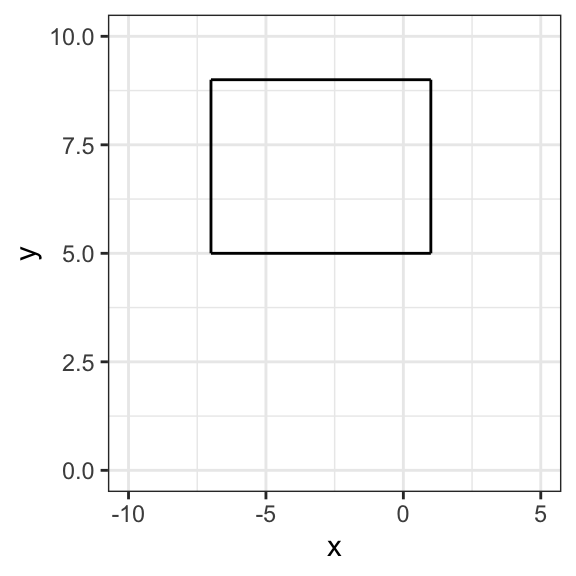
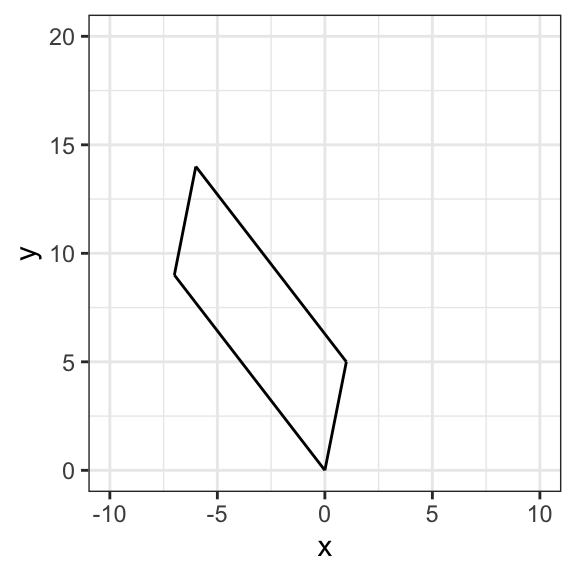
2.1

diff --git a/Lab3WriteUp.html b/Lab3WriteUp.html
@@ -254,31 +254,31 @@ Figure&nbsp;1: The unit square.
 <div class="cell">
 <details class="code-fold">
 <summary>Code</summary>
-<div class="sourceCode cell-code" id="cb12"><pre class="sourceCode numberSource r number-lines code-with-copy"><code class="sourceCode r"><span id="cb12-1"><a href="#cb12-1"></a>(p0 <span class="ot">&lt;-</span> <span class="fu">c</span>(<span class="sc">-</span><span class="dv">7</span>, <span class="dv">5</span>)) </span></code><button title="Copy to Clipboard" class="code-copy-button"><i class="bi"></i></button></pre></div>
+<div class="sourceCode cell-code" id="cb12"><pre class="sourceCode numberSource r number-lines code-with-copy"><code class="sourceCode r"><span id="cb12-1"><a href="#cb12-1"></a>(p0 <span class="ot">&lt;-</span> <span class="fu">c</span>(<span class="dv">0</span>, <span class="dv">0</span>)) </span></code><button title="Copy to Clipboard" class="code-copy-button"><i class="bi"></i></button></pre></div>
 </details>
 <div class="cell-output cell-output-stdout">
-<pre><code>[1] -7  5</code></pre>
+<pre><code>[1] 0 0</code></pre>
 </div>
 <details class="code-fold">
 <summary>Code</summary>
-<div class="sourceCode cell-code" id="cb14"><pre class="sourceCode numberSource r number-lines code-with-copy"><code class="sourceCode r"><span id="cb14-1"><a href="#cb14-1"></a>(p1 <span class="ot">&lt;-</span> <span class="fu">c</span>(<span class="sc">-</span><span class="dv">7</span>, <span class="dv">9</span>))</span></code><button title="Copy to Clipboard" class="code-copy-button"><i class="bi"></i></button></pre></div>
-</details>
-<div class="cell-output cell-output-stdout">
-<pre><code>[1] -7  9</code></pre>
-</div>
-<details class="code-fold">
-<summary>Code</summary>
-<div class="sourceCode cell-code" id="cb16"><pre class="sourceCode numberSource r number-lines code-with-copy"><code class="sourceCode r"><span id="cb16-1"><a href="#cb16-1"></a>(p2 <span class="ot">&lt;-</span> <span class="fu">c</span>(<span class="dv">1</span>, <span class="dv">9</span>))</span></code><button title="Copy to Clipboard" class="code-copy-button"><i class="bi"></i></button></pre></div>
-</details>
-<div class="cell-output cell-output-stdout">
-<pre><code>[1] 1 9</code></pre>
-</div>
-<details class="code-fold">
-<summary>Code</summary>
-<div class="sourceCode cell-code" id="cb18"><pre class="sourceCode numberSource r number-lines code-with-copy"><code class="sourceCode r"><span id="cb18-1"><a href="#cb18-1"></a>(p3 <span class="ot">&lt;-</span> <span class="fu">c</span>(<span class="dv">1</span>, <span class="dv">5</span>)) <span class="co"># created points p0, p1, p2, p3</span></span></code><button title="Copy to Clipboard" class="code-copy-button"><i class="bi"></i></button></pre></div>
+<div class="sourceCode cell-code" id="cb14"><pre class="sourceCode numberSource r number-lines code-with-copy"><code class="sourceCode r"><span id="cb14-1"><a href="#cb14-1"></a>(p1 <span class="ot">&lt;-</span> <span class="fu">c</span>(<span class="dv">1</span>, <span class="dv">5</span>))</span></code><button title="Copy to Clipboard" class="code-copy-button"><i class="bi"></i></button></pre></div>
 </details>
 <div class="cell-output cell-output-stdout">
 <pre><code>[1] 1 5</code></pre>
+</div>
+<details class="code-fold">
+<summary>Code</summary>
+<div class="sourceCode cell-code" id="cb16"><pre class="sourceCode numberSource r number-lines code-with-copy"><code class="sourceCode r"><span id="cb16-1"><a href="#cb16-1"></a>(p2 <span class="ot">&lt;-</span> <span class="fu">c</span>(<span class="sc">-</span><span class="dv">6</span>, <span class="dv">14</span>))</span></code><button title="Copy to Clipboard" class="code-copy-button"><i class="bi"></i></button></pre></div>
+</details>
+<div class="cell-output cell-output-stdout">
+<pre><code>[1] -6 14</code></pre>
+</div>
+<details class="code-fold">
+<summary>Code</summary>
+<div class="sourceCode cell-code" id="cb18"><pre class="sourceCode numberSource r number-lines code-with-copy"><code class="sourceCode r"><span id="cb18-1"><a href="#cb18-1"></a>(p3 <span class="ot">&lt;-</span> <span class="fu">c</span>(<span class="sc">-</span><span class="dv">7</span>, <span class="dv">9</span>)) <span class="co"># created points p0, p1, p2, p3</span></span></code><button title="Copy to Clipboard" class="code-copy-button"><i class="bi"></i></button></pre></div>
+</details>
+<div class="cell-output cell-output-stdout">
+<pre><code>[1] -7  9</code></pre>
 </div>
 </div>
 <p></p>
@@ -297,8 +297,8 @@ Figure&nbsp;1: The unit square.
 <span id="cb20-4"><a href="#cb20-4"></a>  <span class="fu">geom_segment</span>(<span class="fu">aes</span>(<span class="at">x =</span> p2[<span class="dv">1</span>], <span class="at">y =</span> p2[<span class="dv">2</span>], <span class="at">xend =</span> p3[<span class="dv">1</span>], <span class="at">yend =</span> p3[<span class="dv">2</span>])) <span class="sc">+</span></span>
 <span id="cb20-5"><a href="#cb20-5"></a>  <span class="fu">geom_segment</span>(<span class="fu">aes</span>(<span class="at">x =</span> p3[<span class="dv">1</span>], <span class="at">y =</span> p3[<span class="dv">2</span>], <span class="at">xend =</span> p0[<span class="dv">1</span>], <span class="at">yend =</span> p0[<span class="dv">2</span>])) <span class="sc">+</span></span>
 <span id="cb20-6"><a href="#cb20-6"></a>  <span class="fu">theme_bw</span>() <span class="sc">+</span></span>
-<span id="cb20-7"><a href="#cb20-7"></a>  <span class="fu">xlim</span>(<span class="sc">-</span><span class="dv">10</span>, <span class="dv">5</span>) <span class="sc">+</span></span>
-<span id="cb20-8"><a href="#cb20-8"></a>  <span class="fu">ylim</span>(<span class="dv">0</span>, <span class="dv">10</span>) <span class="sc">+</span></span>
+<span id="cb20-7"><a href="#cb20-7"></a>  <span class="fu">xlim</span>(<span class="sc">-</span><span class="dv">10</span>, <span class="dv">10</span>) <span class="sc">+</span></span>
+<span id="cb20-8"><a href="#cb20-8"></a>  <span class="fu">ylim</span>(<span class="dv">0</span>, <span class="dv">20</span>) <span class="sc">+</span></span>
 <span id="cb20-9"><a href="#cb20-9"></a>  <span class="fu">labs</span>(<span class="at">x =</span> <span class="st">"x"</span>, <span class="at">y =</span> <span class="st">"y"</span>)</span></code><button title="Copy to Clipboard" class="code-copy-button"><i class="bi"></i></button></pre></div>
 </details>
 <div class="cell-output-display">
@@ -324,7 +324,7 @@ Figure&nbsp;2: Matrix T.
 <div class="cell">
 <details class="code-fold">
 <summary>Code</summary>
-<div class="sourceCode cell-code" id="cb21"><pre class="sourceCode numberSource r number-lines code-with-copy"><code class="sourceCode r"><span id="cb21-1"><a href="#cb21-1"></a>(A.determinant <span class="ot">&lt;-</span> <span class="fu">det</span>(A)) <span class="co"># found the determinant of A</span></span></code><button title="Copy to Clipboard" class="code-copy-button"><i class="bi"></i></button></pre></div>
+<div class="sourceCode cell-code" id="cb21"><pre class="sourceCode numberSource r number-lines code-with-copy"><code class="sourceCode r"><span id="cb21-1"><a href="#cb21-1"></a>(A.determinant <span class="ot">&lt;-</span> <span class="fu">det</span>(A)) <span class="co"># found determinant of A</span></span></code><button title="Copy to Clipboard" class="code-copy-button"><i class="bi"></i></button></pre></div>
 </details>
 <div class="cell-output cell-output-stdout">
 <pre><code>[1] 44</code></pre>
